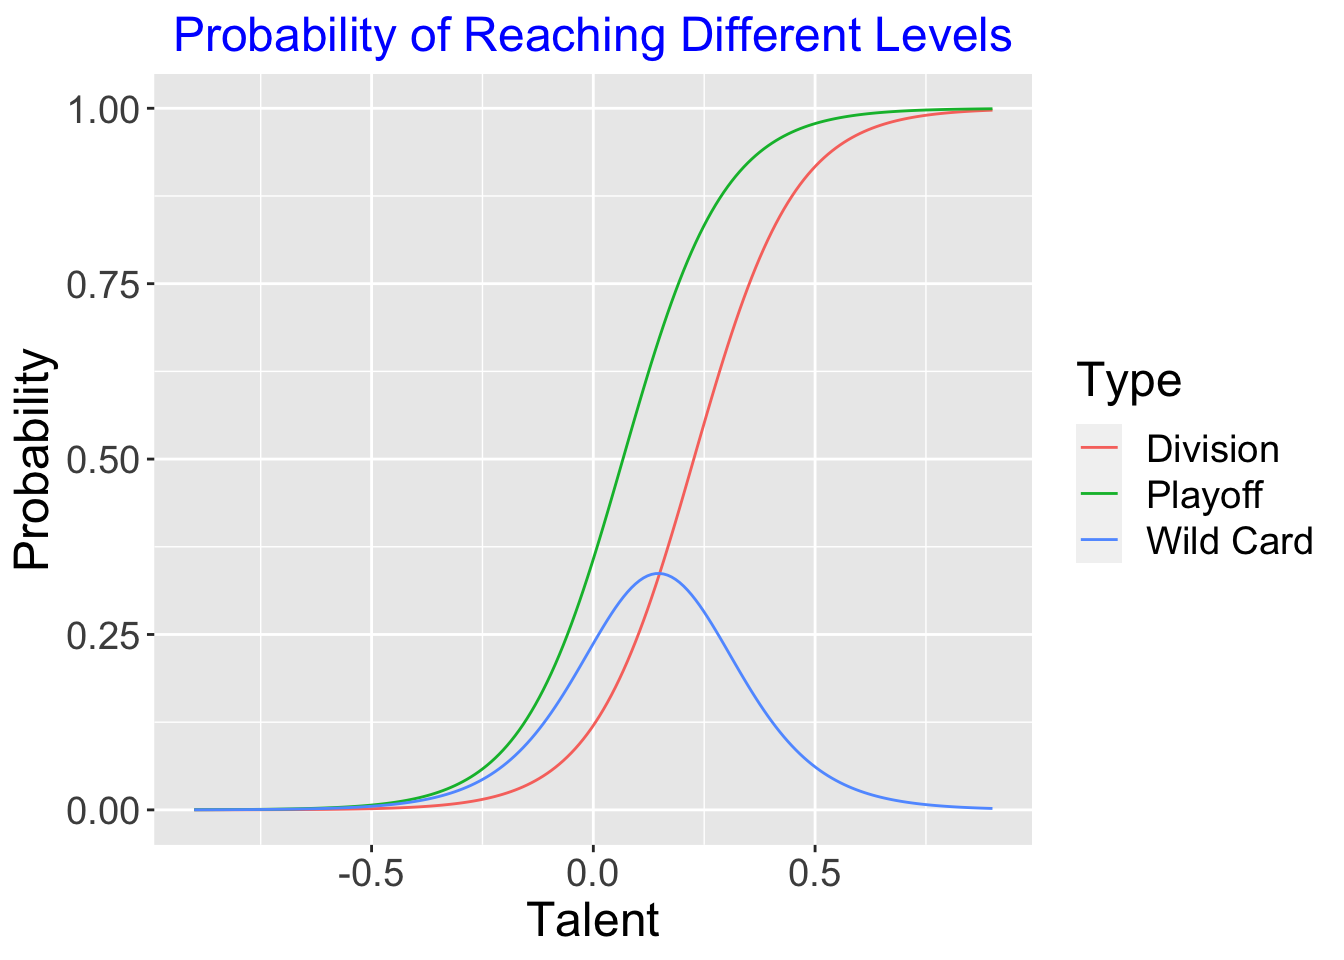
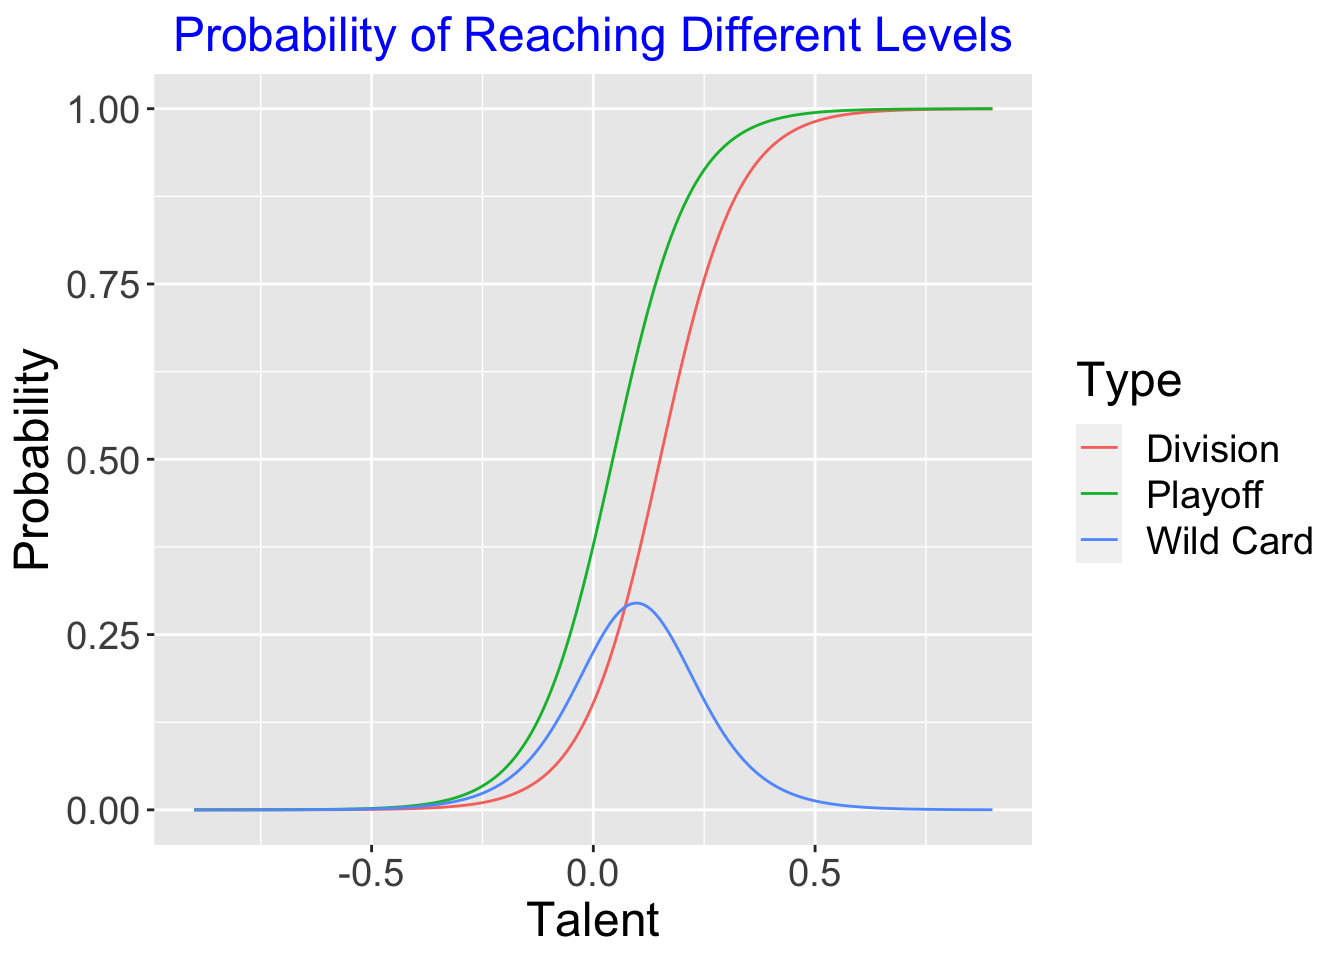
adjusted some things

diff --git a/docs/posts/Mariners Playoff Analysis/index.html b/docs/posts/Mariners Playoff Analysis/index.html
@@ -242,27 +242,27 @@ code span.wa { color: #60a0b0; font-weight: bold; font-style: italic; } /* Warni
 <pre><code>                                                                        
                  AL East    W     L                   NL East    W     L
                  ------------------                   ------------------
-         New York Yankees   87   74              Miami Marlins   89   72
-           Tampa Bay Rays   85   76      Philadelphia Phillies   79   82
-        Baltimore Orioles   84   77             Atlanta Braves   75   86
-           Boston Red Sox   82   79       Washington Nationals   72   89
-        Toronto Blue Jays   72   89              New York Mets   70   91
+           Tampa Bay Rays   89   72             Atlanta Braves   91   70
+        Baltimore Orioles   87   74      Philadelphia Phillies   90   71
+           Boston Red Sox   86   75              New York Mets   80   81
+         New York Yankees   86   75              Miami Marlins   79   82
+        Toronto Blue Jays   83   78       Washington Nationals   75   86
                                                                         
                  AL Cent    W     L                   NL Cent    W     L
                  ------------------                   ------------------
-          Minnesota Twins   88   73               Chicago Cubs   96   65
-           Detroit Tigers   85   76          Milwaukee Brewers   92   69
-        Chicago White Sox   82   79        St. Louis Cardinals   76   85
-       Kansas City Royals   77   84         Pittsburgh Pirates   71   90
-      Cleveland Guardians   75   86            Cincinnati Reds   71   90
+          Minnesota Twins   82   79          Milwaukee Brewers   84   77
+        Chicago White Sox   78   83            Cincinnati Reds   80   81
+       Kansas City Royals   78   83        St. Louis Cardinals   77   84
+      Cleveland Guardians   77   84               Chicago Cubs   75   86
+           Detroit Tigers   76   85         Pittsburgh Pirates   68   93
                                                                         
                  AL West    W     L                    NL West   W     L
                  ------------------                   ------------------
-       Los Angeles Angels   90   71       Arizona Diamondbacks   99   62
-        Oakland Athletics   83   78           San Diego Padres   98   63
-           Houston Astros   83   78        Los Angeles Dodgers   89   72
-         Seattle Mariners   74   87       San Francisco Giants   71   90
-            Texas Rangers   65   96           Colorado Rockies   70   91</code></pre>
+           Houston Astros   87   74        Los Angeles Dodgers   90   71
+       Los Angeles Angels   86   75           San Diego Padres   87   74
+            Texas Rangers   84   77       San Francisco Giants   77   84
+         Seattle Mariners   83   78           Colorado Rockies   73   88
+        Oakland Athletics   69   92       Arizona Diamondbacks   73   88</code></pre>
 </div>
 </div>
 </section>
@@ -297,123 +297,123 @@ code span.wa { color: #60a0b0; font-weight: bold; font-style: italic; } /* Warni
 <tbody>
 <tr class="odd">
 <td style="text-align: left;">Arizona Diamondbacks</td>
-<td style="text-align: right;">0.90</td>
+<td style="text-align: right;">0.26</td>
 </tr>
 <tr class="even">
 <td style="text-align: left;">Atlanta Braves</td>
-<td style="text-align: right;">0.35</td>
+<td style="text-align: right;">0.62</td>
 </tr>
 <tr class="odd">
 <td style="text-align: left;">Baltimore Orioles</td>
-<td style="text-align: right;">0.40</td>
+<td style="text-align: right;">0.34</td>
 </tr>
 <tr class="even">
 <td style="text-align: left;">Boston Red Sox</td>
-<td style="text-align: right;">0.19</td>
+<td style="text-align: right;">0.34</td>
 </tr>
 <tr class="odd">
 <td style="text-align: left;">Chicago Cubs</td>
-<td style="text-align: right;">0.47</td>
+<td style="text-align: right;">0.29</td>
 </tr>
 <tr class="even">
 <td style="text-align: left;">Chicago White Sox</td>
-<td style="text-align: right;">0.50</td>
+<td style="text-align: right;">0.31</td>
 </tr>
 <tr class="odd">
 <td style="text-align: left;">Cincinnati Reds</td>
-<td style="text-align: right;">0.11</td>
+<td style="text-align: right;">0.18</td>
 </tr>
 <tr class="even">
 <td style="text-align: left;">Cleveland Guardians</td>
-<td style="text-align: right;">0.00</td>
+<td style="text-align: right;">0.53</td>
 </tr>
 <tr class="odd">
 <td style="text-align: left;">Colorado Rockies</td>
-<td style="text-align: right;">0.05</td>
+<td style="text-align: right;">0.09</td>
 </tr>
 <tr class="even">
 <td style="text-align: left;">Detroit Tigers</td>
-<td style="text-align: right;">0.35</td>
+<td style="text-align: right;">0.18</td>
 </tr>
 <tr class="odd">
 <td style="text-align: left;">Houston Astros</td>
-<td style="text-align: right;">0.43</td>
+<td style="text-align: right;">0.77</td>
 </tr>
 <tr class="even">
 <td style="text-align: left;">Kansas City Royals</td>
-<td style="text-align: right;">0.48</td>
+<td style="text-align: right;">0.11</td>
 </tr>
 <tr class="odd">
 <td style="text-align: left;">Los Angeles Angels</td>
-<td style="text-align: right;">0.69</td>
+<td style="text-align: right;">0.32</td>
 </tr>
 <tr class="even">
 <td style="text-align: left;">Los Angeles Dodgers</td>
-<td style="text-align: right;">0.19</td>
+<td style="text-align: right;">0.87</td>
 </tr>
 <tr class="odd">
 <td style="text-align: left;">Miami Marlins</td>
-<td style="text-align: right;">0.88</td>
+<td style="text-align: right;">0.20</td>
 </tr>
 <tr class="even">
 <td style="text-align: left;">Milwaukee Brewers</td>
-<td style="text-align: right;">0.79</td>
+<td style="text-align: right;">0.50</td>
 </tr>
 <tr class="odd">
 <td style="text-align: left;">Minnesota Twins</td>
-<td style="text-align: right;">0.41</td>
+<td style="text-align: right;">0.44</td>
 </tr>
 <tr class="even">
 <td style="text-align: left;">New York Mets</td>
-<td style="text-align: right;">0.37</td>
+<td style="text-align: right;">0.71</td>
 </tr>
 <tr class="odd">
 <td style="text-align: left;">New York Yankees</td>
-<td style="text-align: right;">0.80</td>
+<td style="text-align: right;">0.82</td>
 </tr>
 <tr class="even">
 <td style="text-align: left;">Oakland Athletics</td>
-<td style="text-align: right;">0.64</td>
-</tr>
-<tr class="odd">
-<td style="text-align: left;">Philadelphia Phillies</td>
-<td style="text-align: right;">0.37</td>
-</tr>
-<tr class="even">
-<td style="text-align: left;">Pittsburgh Pirates</td>
 <td style="text-align: right;">0.09</td>
 </tr>
 <tr class="odd">
+<td style="text-align: left;">Philadelphia Phillies</td>
+<td style="text-align: right;">0.50</td>
+</tr>
+<tr class="even">
+<td style="text-align: left;">Pittsburgh Pirates</td>
+<td style="text-align: right;">0.10</td>
+</tr>
+<tr class="odd">
 <td style="text-align: left;">San Diego Padres</td>
-<td style="text-align: right;">1.00</td>
+<td style="text-align: right;">0.40</td>
 </tr>
 <tr class="even">
 <td style="text-align: left;">San Francisco Giants</td>
-<td style="text-align: right;">0.13</td>
+<td style="text-align: right;">0.45</td>
 </tr>
 <tr class="odd">
 <td style="text-align: left;">Seattle Mariners</td>
-<td style="text-align: right;">0.00</td>
+<td style="text-align: right;">0.44</td>
 </tr>
 <tr class="even">
 <td style="text-align: left;">St.&nbsp;Louis Cardinals</td>
-<td style="text-align: right;">0.06</td>
+<td style="text-align: right;">0.79</td>
 </tr>
 <tr class="odd">
 <td style="text-align: left;">Tampa Bay Rays</td>
-<td style="text-align: right;">0.90</td>
+<td style="text-align: right;">0.41</td>
 </tr>
 <tr class="even">
 <td style="text-align: left;">Texas Rangers</td>
-<td style="text-align: right;">0.21</td>
+<td style="text-align: right;">0.37</td>
 </tr>
 <tr class="odd">
 <td style="text-align: left;">Toronto Blue Jays</td>
-<td style="text-align: right;">0.00</td>
+<td style="text-align: right;">0.53</td>
 </tr>
 <tr class="even">
 <td style="text-align: left;">Washington Nationals</td>
-<td style="text-align: right;">0.24</td>
+<td style="text-align: right;">0.04</td>
 </tr>
 </tbody>
 </table>

diff --git a/docs/index.html b/docs/index.html
@@ -168,7 +168,7 @@ ul.task-list li input[type="checkbox"] {
 
 <div class="quarto-listing quarto-listing-container-default" id="listing-listing">
 <div class="list quarto-listing-default">
-<div class="quarto-post image-right" data-index="0" data-listing-date-sort="1685516400000" data-listing-file-modified-sort="1686175398041" data-listing-reading-time-sort="10.08">
+<div class="quarto-post image-right" data-index="0" data-listing-date-sort="1685516400000" data-listing-file-modified-sort="1686178356153" data-listing-reading-time-sort="10.145">
 <div class="body">
 <a href="./posts/Mariners Playoff Analysis/index.html">
 <h3 class="no-anchor listing-title">
